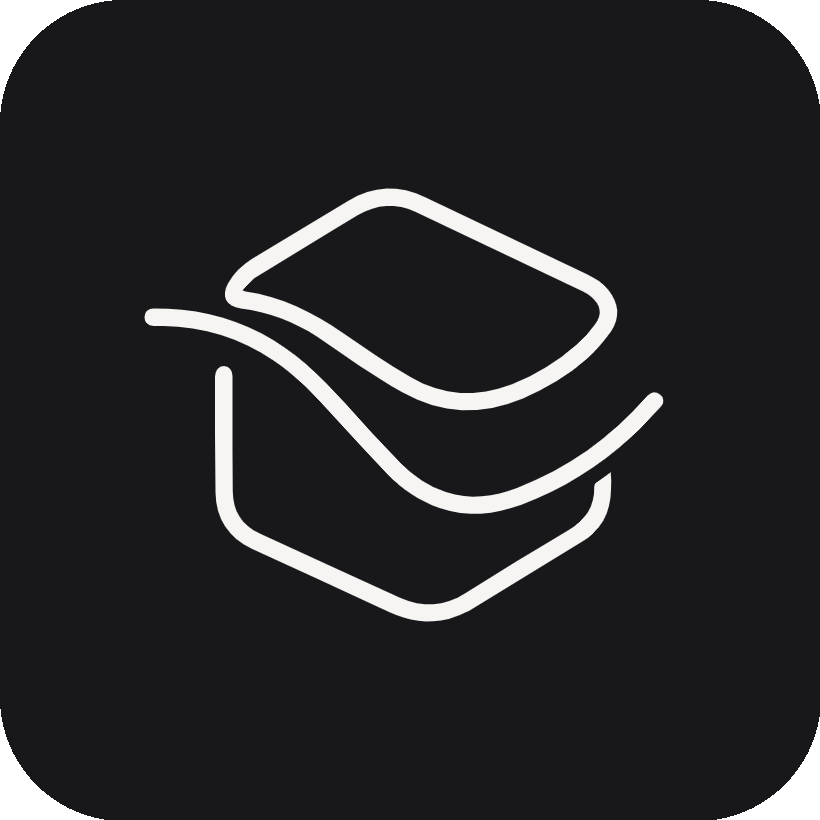
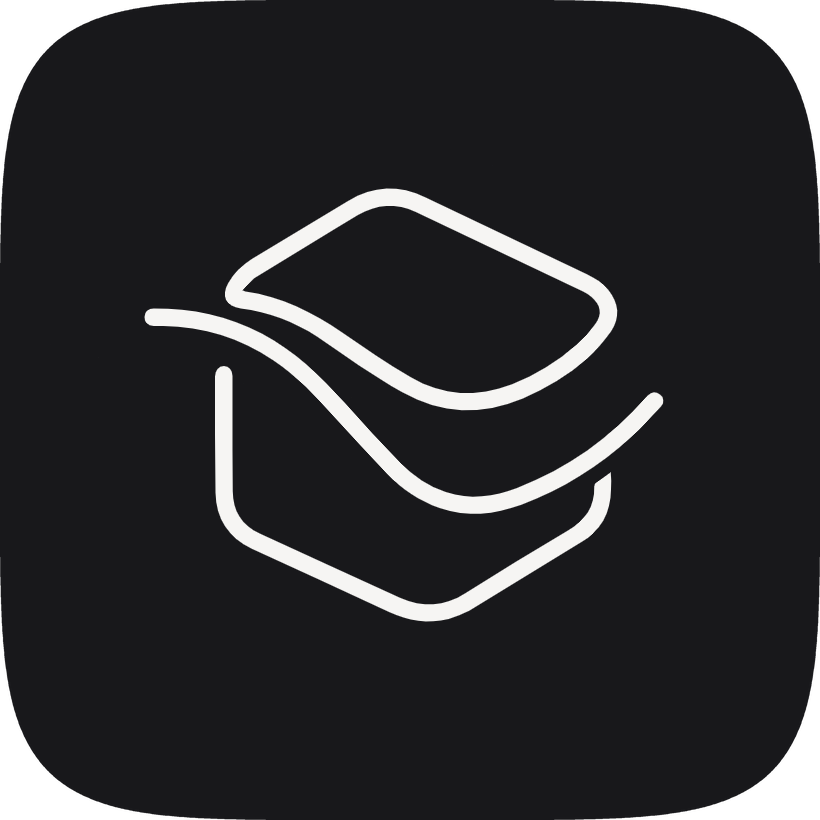
use superellipse instead of rounded rect

diff --git a/mcww_web/pwa/round.py b/mcww_web/pwa/round.py
@@ -1,28 +1,44 @@
-#!/bin/python
+#!/usr/bin/env python3
 import argparse
 import os
+import math
 from PIL import Image, ImageChops, ImageDraw
 
+def generate_superellipse_points(width: int, height: int, n: float, num_points: int = 1000):
+    """Calculates the coordinates for a superellipse polygon."""
+    points = []
+    a = width / 2.0
+    b = height / 2.0
 
-def create_rounded_icon(
-    image_path: str, output_path: str, pad_pct: float, radius_pct: float
+    for i in range(num_points):
+        theta = 2 * math.pi * i / num_points
+
+        cos_t = math.cos(theta)
+        sin_t = math.sin(theta)
+
+        # Parametric equations for superellipse
+        x = a * (abs(cos_t) ** (2 / n)) * math.copysign(1, cos_t)
+        y = b * (abs(sin_t) ** (2 / n)) * math.copysign(1, sin_t)
+
+        # Shift coordinates so the center is at (a, b)
+        points.append((x + a, y + b))
+
+    return points
+
+def create_superellipse_icon(
+    image_path: str, output_path: str, pad_pct: float, exponent: float
 ):
-    """Crops a square image by a percentage and rounds its corners using a percentage."""
+    """Crops a square image by a percentage and applies a superellipse mask."""
     if not os.path.exists(image_path):
         print(f"Error: The file '{image_path}' does not exist.")
         return
 
     if pad_pct >= 50:
-        print(
-            "Error: Pad percentage must be less than 50% (otherwise the image collapses)."
-        )
+        print("Error: Pad percentage must be less than 50% (otherwise the image collapses).")
         return
 
-    if radius_pct > 50:
-        print(
-            "Warning: A radius greater than 50% will clip awkwardly. Capping at 50% (perfect circle)."
-        )
-        radius_pct = 50
+    if exponent < 2:
+        print("Warning: An exponent less than 2 creates a star-like shape. Typically use 2 (circle) to 5 (squircle).")
 
     with Image.open(image_path) as img:
         img = img.convert("RGBA")
@@ -35,16 +51,20 @@ def create_rounded_icon(
         cropped_img = img.crop(crop_box)
         crop_w, crop_h = cropped_img.size
 
-        # 2. Convert radius percentage to pixels (based on the new cropped size)
-        # A 50% radius means the radius equals half the width, making a circle.
-        radius_px = int(crop_w * (radius_pct / 100.0))
+        # 2. Create a high-resolution mask for anti-aliasing
+        # We draw the polygon at 4x size and then scale it down for smooth edges.
+        scale = 4
+        mask_w, mask_h = crop_w * scale, crop_h * scale
 
-        # 3. Create the mask using pixel values
-        mask = Image.new("L", (crop_w, crop_h), 0)
+        mask = Image.new("L", (mask_w, mask_h), 0)
         draw = ImageDraw.Draw(mask)
-        draw.rounded_rectangle(
-            (0, 0, crop_w, crop_h), radius=radius_px, fill=255
-        )
+
+        # Calculate superellipse points at the upscaled size
+        polygon_points = generate_superellipse_points(mask_w, mask_h, exponent)
+
+        # 3. Draw the polygon and resize the mask down to the target size
+        draw.polygon(polygon_points, fill=255)
+        mask = mask.resize((crop_w, crop_h), Image.Resampling.LANCZOS)
 
         # 4. Merge alpha channels
         orig_alpha = cropped_img.split()[3]
@@ -53,18 +73,17 @@ def create_rounded_icon(
 
         # 5. Save the result
         cropped_img.save(output_path, "PNG")
-        print(f"Success! Rounded icon saved to: {output_path}")
-
+        print(f"Success! Superellipse icon saved to: {output_path}")
 
 def main():
     parser = argparse.ArgumentParser(
-        description="Crop a square icon and round its corners using percentages."
+        description="Crop a square icon and apply a superellipse (squircle) mask."
     )
 
     # Positional argument
     parser.add_argument("input", help="Path to the input square icon image.")
 
-    # Percentage arguments
+    # Modified arguments
     parser.add_argument(
         "-p",
         "--pad",
@@ -73,30 +92,29 @@ def main():
         help="Percentage (0-49) to crop from each side.",
     )
     parser.add_argument(
-        "-r",
-        "--radius",
+        "-n",
+        "--exponent",
         type=float,
-        required=True,
-        help="Corner radius as a percentage (0-50) of the cropped image.",
+        default=4.0,
+        help="Superellipse exponent (e.g., 2 for circle, 4 or 5 for iOS-like squircle). Default is 4.0.",
     )
 
     # Optional output argument
     parser.add_argument(
         "-o",
         "--output",
-        default="rounded_output.png",
-        help="Path to save the output image (default: rounded_output.png).",
+        default="superellipse_output.png",
+        help="Path to save the output image (default: superellipse_output.png).",
     )
 
     args = parser.parse_args()
 
-    create_rounded_icon(
+    create_superellipse_icon(
         image_path=args.input,
         output_path=args.output,
         pad_pct=args.pad,
-        radius_pct=args.radius,
+        exponent=args.exponent,
     )
-
 
 if __name__ == "__main__":
     main()